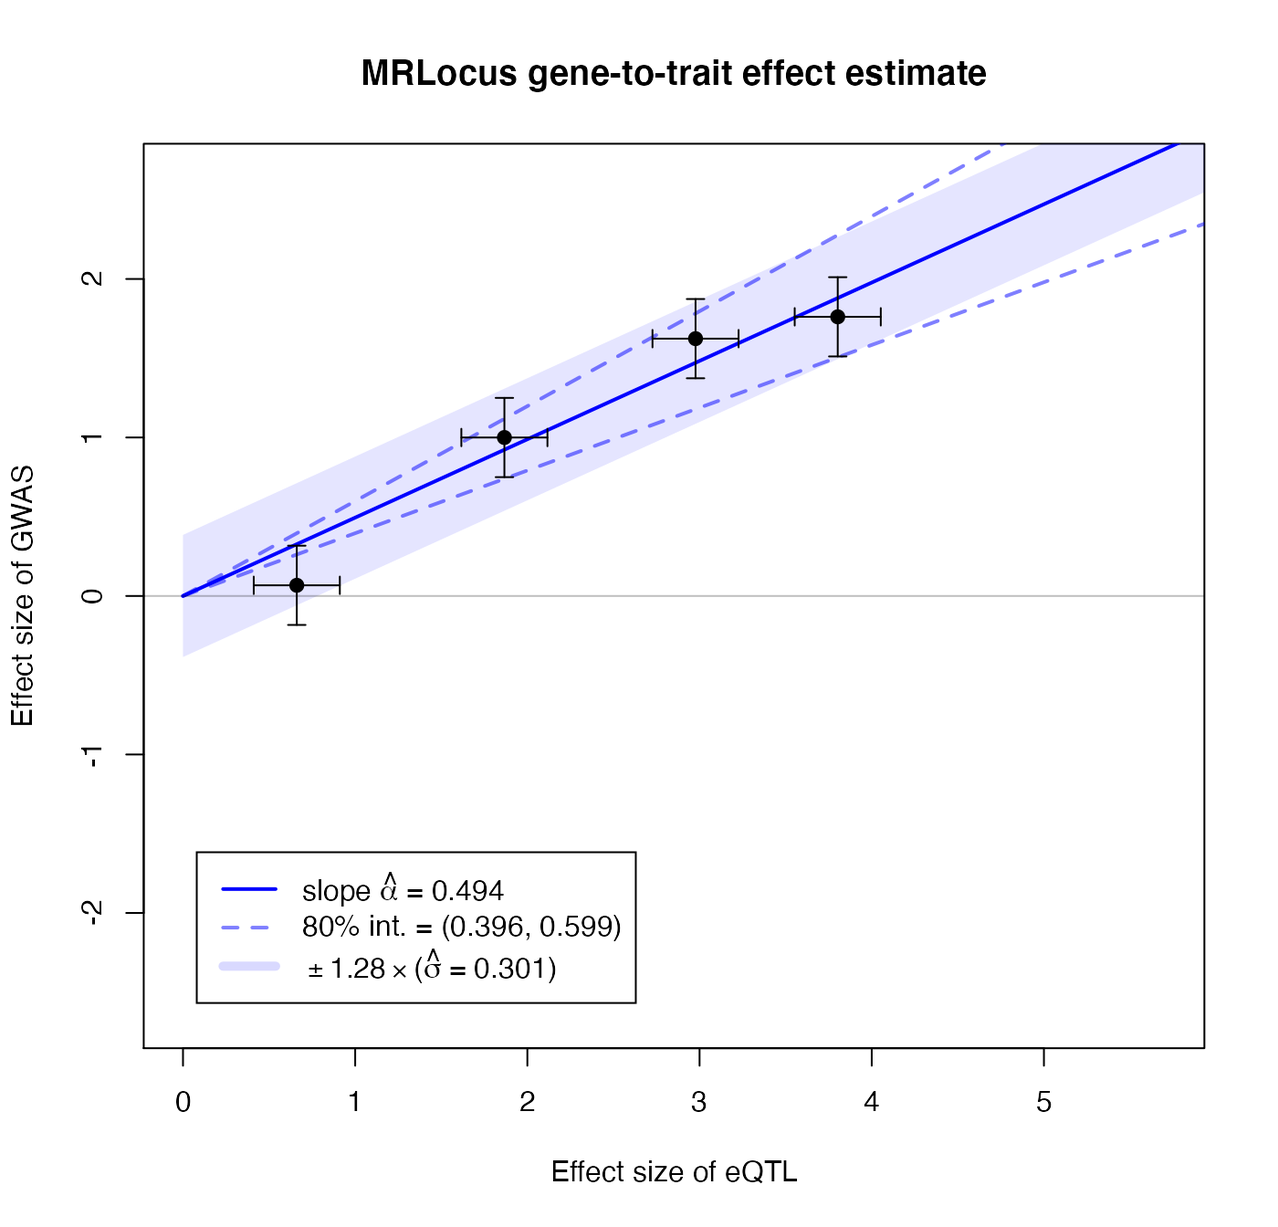
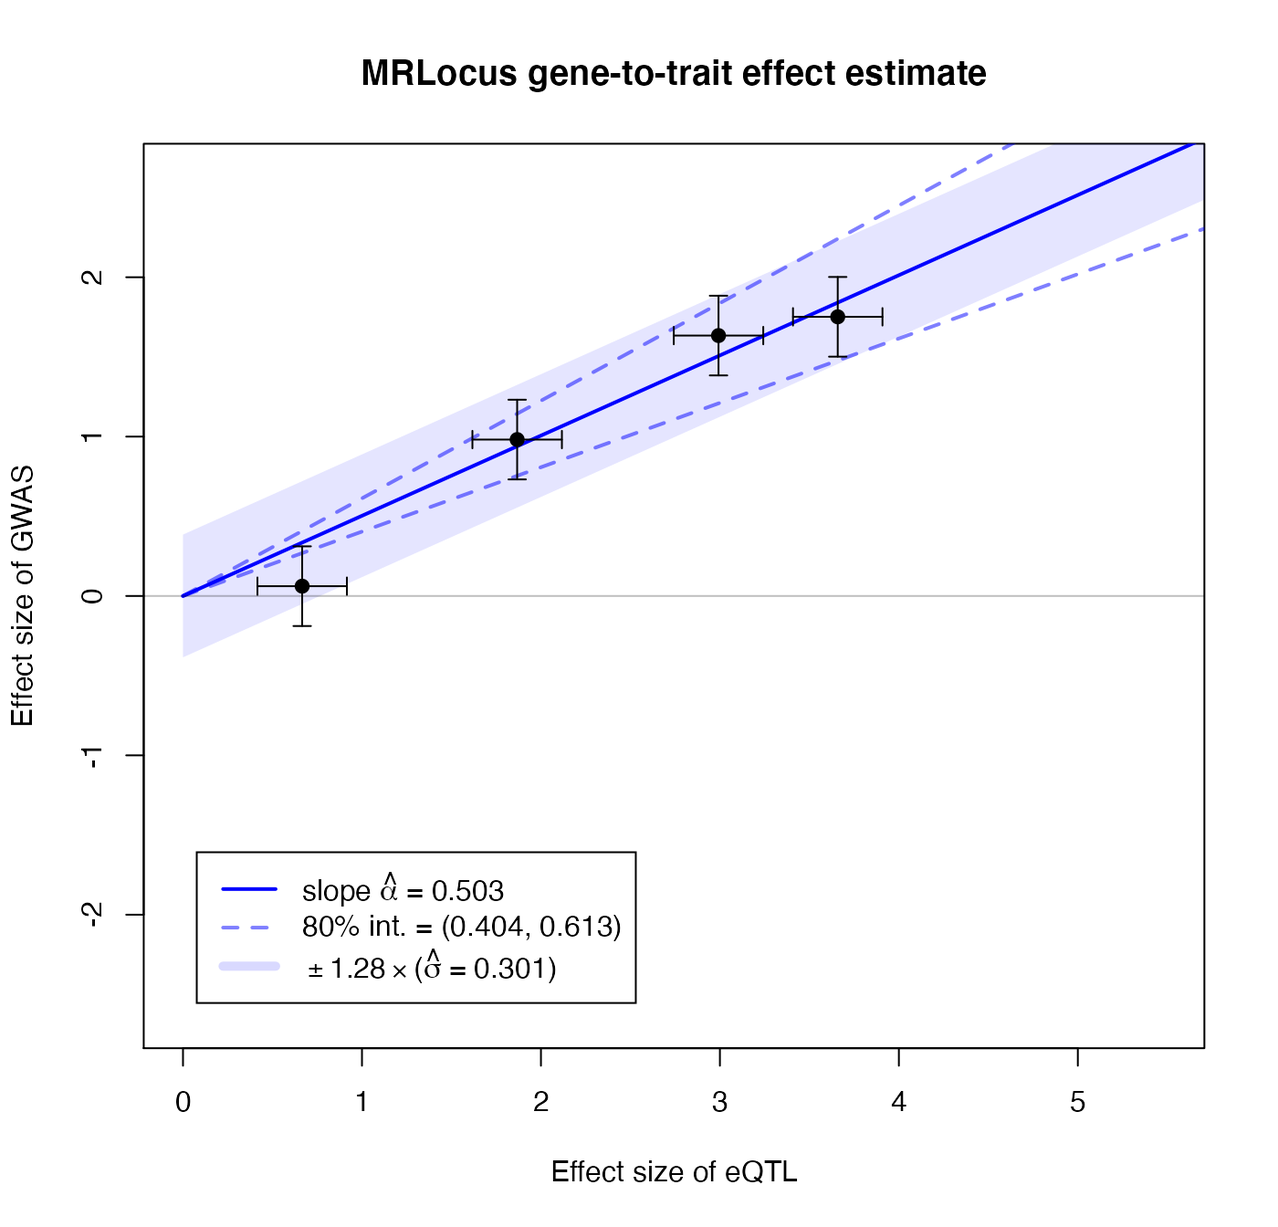
updating citation

diff --git a/docs/articles/mrlocus.html b/docs/articles/mrlocus.html
@@ -70,13 +70,13 @@
 
       
 
-      </header><div class="row">
+      </header><script src="mrlocus_files/header-attrs-2.7/header-attrs.js"></script><div class="row">
   <div class="col-md-9 contents">
     <div class="page-header toc-ignore">
       <h1 data-toc-skip>MRLocus - estimation of gene-to-trait effects</h1>
                         <h4 class="author">Anqi Zhu, Nana Matoba, Jason Stein, Michael Love</h4>
             
-            <h4 class="date">03/02/2021</h4>
+            <h4 class="date">04/23/2021</h4>
       
       <small class="dont-index">Source: <a href="https://github.com/mikelove/mrlocus/blob/master/vignettes/mrlocus.Rmd"><code>vignettes/mrlocus.Rmd</code></a></small>
       <div class="hidden name"><code>mrlocus.Rmd</code></div>
@@ -86,16 +86,16 @@
     
         <div class="abstract">
       <p class="abstract">Abstract</p>
-      MRLocus provides estimation of gene-to-trait effects from eQTL and GWAS summary statistics, for loci with allelic heterogeneity: multiple nearly-LD-independent signal clusters representing distinct eQTLs. Evidence is aggregated across signal clusters for mediation of the downstream GWAS trait through the gene. MRLocus package version: 0.0.22
+      <p>MRLocus provides estimation of gene-to-trait effects from eQTL and GWAS summary statistics, for loci with allelic heterogeneity: multiple nearly-LD-independent signal clusters representing distinct eQTLs. Evidence is aggregated across signal clusters for mediation of the downstream GWAS trait through the gene. MRLocus package version: 0.0.22</p>
     </div>
     
 <div id="introduction" class="section level1">
 <h1 class="hasAnchor">
 <a href="#introduction" class="anchor"></a>Introduction</h1>
 <p>MRLocus provides Bayesian analysis of gene-to-trait mediation effects, making use of the Stan and RStan software packages for inference <span class="citation">(Carpenter et al. 2017; Stan Development Team 2020)</span>.</p>
-<p>The authors of the associated <a href="https://doi.org/10.1101/2020.08.14.250720">MRLocus manuscript</a> <span class="citation">(Zhu et al. 2020)</span> are:</p>
+<p>The authors of the associated <a href="https://doi.org/10.1371/journal.pgen.1009455">MRLocus manuscript</a> <span class="citation">(Zhu et al. 2021)</span> are:</p>
 <blockquote>
-<p>Anqi Zhu*, Nana Matoba*, Emmaleigh Wilson, Amanda L.Tapia, Yun Li, Joseph G. Ibrahim, Jason L. Stein, Michael I. Love</p>
+<p>Anqi Zhu*, Nana Matoba*, Emma P. Wilson, Amanda L. Tapia, Yun Li, Joseph G. Ibrahim, Jason L. Stein, Michael I. Love</p>
 </blockquote>
 <p>* Both authors contributed equally to this work.</p>
 </div>
@@ -168,7 +168,7 @@
                            Sigma_b <span class="op">=</span> <span class="va">Sigma_b</span><span class="op">[[</span><span class="va">j</span><span class="op">]</span><span class="op">]</span>
                          <span class="op">)</span><span class="op">)</span>
 <span class="op">}</span></code></pre></div>
-<p>We now create a list containing the posterior mean from the colocalization step, and the original SE values. Note the SE values are now referred to as <code>sd</code>. We can extract the list of e.g. <code>beta_hat_a</code> using <code>lapply</code> and the <code><a href="https://rdrr.io/r/base/Extract.html">[[</a></code> extractor as seen below:</p>
+<p>We now create a list containing the posterior mean from the colocalization step, and the original SE values. Note the SE values are now referred to as <code>sd</code>. We can extract the list of e.g. <code>beta_hat_a</code> using <code>lapply</code> and the <code><a href="https://rdrr.io/r/base/Extract.html">[[</a></code> extractor as seen below:</p>
 <div class="sourceCode" id="cb8"><pre class="downlit sourceCode r">
 <code class="sourceCode R"><span class="va">res</span> <span class="op">&lt;-</span> <span class="fu"><a href="https://rdrr.io/r/base/list.html">list</a></span><span class="op">(</span>beta_hat_a <span class="op">=</span> <span class="fu"><a href="https://rdrr.io/r/base/lapply.html">lapply</a></span><span class="op">(</span><span class="va">coloc_fit</span>, <span class="va">`[[`</span>, <span class="st">"beta_hat_a"</span><span class="op">)</span>,
             beta_hat_b <span class="op">=</span> <span class="fu"><a href="https://rdrr.io/r/base/lapply.html">lapply</a></span><span class="op">(</span><span class="va">coloc_fit</span>, <span class="va">`[[`</span>, <span class="st">"beta_hat_b"</span><span class="op">)</span>,
@@ -193,8 +193,8 @@
 <div class="sourceCode" id="cb10"><pre class="downlit sourceCode r">
 <code class="sourceCode R"><span class="fu"><a href="https://rdrr.io/r/utils/str.html">str</a></span><span class="op">(</span><span class="va">res</span><span class="op">)</span> <span class="co"># input to fitSlope()</span></code></pre></div>
 <pre><code>## List of 5
-##  $ beta_hat_a: num [1:4] 0.661 1.867 2.977 3.803
-##  $ beta_hat_b: num [1:4] 0.0673 0.9998 1.6235 1.7613
+##  $ beta_hat_a: num [1:4] 0.666 1.867 2.992 3.658
+##  $ beta_hat_b: num [1:4] 0.0614 0.9814 1.634 1.7517
 ##  $ sd_a      : num [1:4] 0.25 0.25 0.25 0.25
 ##  $ sd_b      : num [1:4] 0.25 0.25 0.25 0.25
 ##  $ alleles   :'data.frame':  4 obs. of  3 variables:
@@ -219,10 +219,10 @@
 ## post-warmup draws per chain=5000, total post-warmup draws=20000.
 ## 
 ##        mean se_mean    sd   10%   90% n_eff  Rhat
-## alpha 0.494   0.001 0.093 0.396 0.599  7130 1.000
-## sigma 0.301   0.006 0.296 0.059 0.633  2625 1.001
+## alpha 0.503   0.002 0.097 0.404 0.613  2934 1.002
+## sigma 0.301   0.006 0.301 0.062 0.634  2588 1.002
 ## 
-## Samples were drawn using NUTS(diag_e) at Tue Mar  2 20:20:40 2021.
+## Samples were drawn using NUTS(diag_e) at Fri Apr 23 11:47:27 2021.
 ## For each parameter, n_eff is a crude measure of effective sample size,
 ## and Rhat is the potential scale reduction factor on split chains (at 
 ## convergence, Rhat=1).</code></pre>
@@ -239,9 +239,9 @@
 <div class="sourceCode" id="cb16"><pre class="downlit sourceCode r">
 <code class="sourceCode R"><span class="fu"><a href="../reference/priorCheck.html">priorCheck</a></span><span class="op">(</span><span class="va">res</span><span class="op">)</span></code></pre></div>
 <p><img src="mrlocus_files/figure-html/priorCheck-1.png" width="700"></p>
-<pre><code>##   parameter  prior_sd    post_sd po_pr_ratio
-## 1     alpha 0.9867857 0.09311562  0.09436256
-## 2     sigma 1.7612540 0.29598510  0.16805361</code></pre>
+<pre><code>##   parameter prior_sd    post_sd po_pr_ratio
+## 1     alpha 1.002854 0.09732662   0.0970496
+## 2     sigma 1.751663 0.30121522   0.1719596</code></pre>
 <p>The default is for the function to return the small summary table, but by setting <code>type=2</code>, it will alternatively return the prior predictive draws themselves, with the number of draws specified by <code>n</code> (default is 200).</p>
 </div>
 <div id="session-info" class="section level1">
@@ -249,9 +249,9 @@
 <a href="#session-info" class="anchor"></a>Session info</h1>
 <div class="sourceCode" id="cb18"><pre class="downlit sourceCode r">
 <code class="sourceCode R"><span class="fu"><a href="https://rdrr.io/r/utils/sessionInfo.html">sessionInfo</a></span><span class="op">(</span><span class="op">)</span></code></pre></div>
-<pre><code>## R version 4.0.3 (2020-10-10)
+<pre><code>## R version 4.0.4 (2021-02-15)
 ## Platform: x86_64-apple-darwin17.0 (64-bit)
-## Running under: macOS Catalina 10.15.7
+## Running under: macOS Big Sur 10.16
 ## 
 ## Matrix products: default
 ## BLAS:   /Library/Frameworks/R.framework/Versions/4.0/Resources/lib/libRblas.dylib
@@ -264,54 +264,56 @@
 ## [1] stats     graphics  grDevices utils     datasets  methods   base     
 ## 
 ## other attached packages:
-## [1] rstan_2.21.2         ggplot2_3.3.3        StanHeaders_2.21.0-7
+## [1] rstan_2.21.1         ggplot2_3.3.3        StanHeaders_2.21.0-7
 ## [4] mrlocus_0.0.22      
 ## 
 ## loaded via a namespace (and not attached):
-##  [1] tidyselect_1.1.0   xfun_0.19          purrr_0.3.4        V8_3.4.0          
-##  [5] colorspace_2.0-0   vctrs_0.3.6        generics_0.1.0     htmltools_0.5.0   
-##  [9] stats4_4.0.3       loo_2.4.1          yaml_2.2.1         rlang_0.4.9       
-## [13] pkgbuild_1.2.0     pkgdown_1.6.1      pillar_1.4.7       glue_1.4.2        
-## [17] withr_2.3.0        matrixStats_0.57.0 lifecycle_0.2.0    stringr_1.4.0     
-## [21] munsell_0.5.0      gtable_0.3.0       ragg_0.4.0         codetools_0.2-18  
-## [25] memoise_1.1.0      evaluate_0.14      inline_0.3.17      knitr_1.30        
-## [29] callr_3.5.1        ps_1.5.0           parallel_4.0.3     curl_4.3          
-## [33] fansi_0.4.1        Rcpp_1.0.5         scales_1.1.1       desc_1.2.0        
-## [37] RcppParallel_5.0.2 jsonlite_1.7.2     systemfonts_0.3.2  fs_1.5.0          
-## [41] textshaping_0.2.1  gridExtra_2.3      digest_0.6.27      stringi_1.5.3     
-## [45] processx_3.4.5     dplyr_1.0.2        rprojroot_2.0.2    grid_4.0.3        
-## [49] cli_2.2.0          tools_4.0.3        magrittr_2.0.1     tibble_3.0.4      
-## [53] crayon_1.3.4       pkgconfig_2.0.3    MASS_7.3-53        ellipsis_0.3.1    
-## [57] prettyunits_1.1.1  assertthat_0.2.1   rmarkdown_2.6      R6_2.5.0          
-## [61] compiler_4.0.3</code></pre>
+##  [1] Rcpp_1.0.6         prettyunits_1.1.1  ps_1.6.0           assertthat_0.2.1  
+##  [5] rprojroot_2.0.2    digest_0.6.27      utf8_1.1.4         V8_3.4.0          
+##  [9] R6_2.5.0           stats4_4.0.4       evaluate_0.14      highr_0.8         
+## [13] pillar_1.6.0       rlang_0.4.10       curl_4.3           callr_3.5.1       
+## [17] jquerylib_0.1.3    rmarkdown_2.7      pkgdown_1.6.1      textshaping_0.3.3 
+## [21] desc_1.3.0         stringr_1.4.0      loo_2.4.1          munsell_0.5.0     
+## [25] compiler_4.0.4     xfun_0.22          pkgconfig_2.0.3    systemfonts_1.0.1 
+## [29] pkgbuild_1.2.0     htmltools_0.5.1.1  tidyselect_1.1.0   tibble_3.1.0      
+## [33] gridExtra_2.3      codetools_0.2-18   matrixStats_0.58.0 fansi_0.4.2       
+## [37] withr_2.4.1        crayon_1.4.1       dplyr_1.0.5        MASS_7.3-53       
+## [41] grid_4.0.4         jsonlite_1.7.2     gtable_0.3.0       lifecycle_1.0.0   
+## [45] DBI_1.1.1          magrittr_2.0.1     scales_1.1.1       RcppParallel_5.1.2
+## [49] cli_2.4.0          stringi_1.5.3      cachem_1.0.4       fs_1.5.0          
+## [53] bslib_0.2.4        ellipsis_0.3.1     ragg_1.1.2         vctrs_0.3.6       
+## [57] generics_0.1.0     tools_4.0.4        glue_1.4.2         purrr_0.3.4       
+## [61] processx_3.5.1     parallel_4.0.4     fastmap_1.1.0      yaml_2.2.1        
+## [65] inline_0.3.17      colorspace_2.0-0   memoise_2.0.0      knitr_1.31        
+## [69] sass_0.3.1</code></pre>
 </div>
 <div id="references" class="section level1 unnumbered">
 <h1 class="hasAnchor">
 <a href="#references" class="anchor"></a>References</h1>
-<div id="refs" class="references">
-<div id="ref-stan">
-<p>Carpenter, Bob, Andrew Gelman, Matthew Hoffman, Daniel Lee, Ben Goodrich, Michael Betancourt, Marcus Brubaker, Jiqiang Guo, Peter Li, and Allen Riddell. 2017. “Stan: A Probabilistic Programming Language.” <em>Journal of Statistical Software, Articles</em> 76 (1): 1–32. <a href="https://doi.org/10.18637/jss.v076.i01">https://doi.org/10.18637/jss.v076.i01</a>.</p>
+<div id="refs" class="references csl-bib-body hanging-indent">
+<div id="ref-stan" class="csl-entry">
+Carpenter, Bob, Andrew Gelman, Matthew Hoffman, Daniel Lee, Ben Goodrich, Michael Betancourt, Marcus Brubaker, Jiqiang Guo, Peter Li, and Allen Riddell. 2017. <span>“Stan: A Probabilistic Programming Language.”</span> <em>Journal of Statistical Software, Articles</em> 76 (1): 1–32. <a href="https://doi.org/10.18637/jss.v076.i01">https://doi.org/10.18637/jss.v076.i01</a>.
 </div>
-<div id="ref-eCAVIAR">
-<p>Hormozdiari, Farhad, Martijn van de Bunt, Ayellet V. Segrè, Xiao Li, Jong Wha J. Joo, Michael Bilow, Jae Hoon Sul, Sriram Sankararaman, Bogdan Pasaniuc, and Eleazar Eskin. 2016. “Colocalization of Gwas and eQTL Signals Detects Target Genes.” <em>The American Journal of Human Genetics</em> 99 (6): 1245–60. <a href="https://doi.org/10.1016/j.ajhg.2016.10.003">https://doi.org/10.1016/j.ajhg.2016.10.003</a>.</p>
+<div id="ref-eCAVIAR" class="csl-entry">
+Hormozdiari, Farhad, Martijn van de Bunt, Ayellet V. Segrè, Xiao Li, Jong Wha J. Joo, Michael Bilow, Jae Hoon Sul, Sriram Sankararaman, Bogdan Pasaniuc, and Eleazar Eskin. 2016. <span>“Colocalization of GWAS and eQTL Signals Detects Target Genes.”</span> <em>The American Journal of Human Genetics</em> 99 (6): 1245–60. <a href="https://doi.org/10.1016/j.ajhg.2016.10.003">https://doi.org/10.1016/j.ajhg.2016.10.003</a>.
 </div>
-<div id="ref-twassim">
-<p>Mancuso, Nicholas. 2020. <a href="https://github.com/mancusolab/twas_sim">https://github.com/mancusolab/twas_sim</a>.</p>
+<div id="ref-twassim" class="csl-entry">
+Mancuso, Nicholas. 2020. <span>“Twas_sim.”</span> <a href="https://github.com/mancusolab/twas_sim">https://github.com/mancusolab/twas_sim</a>.
 </div>
-<div id="ref-plink">
-<p>Purcell, Shaun, Benjamin Neale, Kathe Todd-Brown, Lori Thomas, Manuel A. R. Ferreira, David Bender, Julian Maller, et al. 2007. “PLINK: A Tool Set for Whole-Genome Association and Population-Based Linkage Analyses.” <em>The American Journal of Human Genetics</em> 81 (3): 559–75. <a href="https://doi.org/10.1086/519795">https://doi.org/10.1086/519795</a>.</p>
+<div id="ref-plink" class="csl-entry">
+Purcell, Shaun, Benjamin Neale, Kathe Todd-Brown, Lori Thomas, Manuel A. R. Ferreira, David Bender, Julian Maller, et al. 2007. <span>“<span class="nocase">PLINK: A Tool Set for Whole-Genome Association and Population-Based Linkage Analyses</span>.”</span> <em>The American Journal of Human Genetics</em> 81 (3): 559–75. <a href="https://doi.org/10.1086/519795">https://doi.org/10.1086/519795</a>.
 </div>
-<div id="ref-mclust">
-<p>Scrucca, Luca, Michael Fop, T. Brendan Murphy, and Adrian E. Raftery. 2016. “mclust 5: Clustering, Classification and Density Estimation Using Gaussian Finite Mixture Models.” <em>The R Journal</em> 8 (1): 289–317. <a href="https://doi.org/10.32614/RJ-2016-021">https://doi.org/10.32614/RJ-2016-021</a>.</p>
+<div id="ref-mclust" class="csl-entry">
+Scrucca, Luca, Michael Fop, T. Brendan Murphy, and Adrian E. Raftery. 2016. <span>“<span class="nocase">mclust</span> 5: Clustering, Classification and Density Estimation Using <span>G</span>aussian Finite Mixture Models.”</span> <em>The <span>R</span> Journal</em> 8 (1): 289–317. <a href="https://doi.org/10.32614/RJ-2016-021">https://doi.org/10.32614/RJ-2016-021</a>.
 </div>
-<div id="ref-rstan">
-<p>Stan Development Team. 2020. “RStan: The R Interface to Stan.” <a href="http://mc-stan.org/">http://mc-stan.org/</a>.</p>
+<div id="ref-rstan" class="csl-entry">
+Stan Development Team. 2020. <span>“<span>RStan</span>: The <span>R</span> Interface to <span>Stan</span>.”</span> <a href="http://mc-stan.org/">http://mc-stan.org/</a>.
 </div>
-<div id="ref-ptwas">
-<p>Zhang, Yuhua, Corbin Quick, Ketian Yu, Alvaro BarbeiraFrancesca Luca, Roger Pique-Regi, Hae Kyung Im, and Xiaoquan Wen. 2019. “Investigating Tissue-Relevant Causal Molecular Mechanisms of Complex Traits Using Probabilistic Twas Analysis.” <em>bioRxiv</em>. Cold Spring Harbor Laboratory. <a href="https://doi.org/10.1101/808295">https://doi.org/10.1101/808295</a>.</p>
+<div id="ref-ptwas" class="csl-entry">
+Zhang, Yuhua, Corbin Quick, Ketian Yu, Alvaro Barbeira, Francesca Luca, Roger Pique-Regi, Hae Kyung Im, and Xiaoquan Wen. 2019. <span>“Investigating Tissue-Relevant Causal Molecular Mechanisms of Complex Traits Using Probabilistic TWAS Analysis.”</span> <em>bioRxiv</em>. <a href="https://doi.org/10.1101/808295">https://doi.org/10.1101/808295</a>.
 </div>
-<div id="ref-mrlocus">
-<p>Zhu, Anqi, Nana Matoba, Emmaleigh Wilson, Amanda L. Tapia, Yun Li, Joseph G. Ibrahim, Jason L. Stein, and Michael I. Love. 2020. “MRLocus: identifying causal genes mediating a trait through Bayesian estimation of allelic heterogeneity.” <em>bioRxiv</em>. <a href="https://doi.org/10.1101/2020.08.14.250720">https://doi.org/10.1101/2020.08.14.250720</a>.</p>
+<div id="ref-mrlocus" class="csl-entry">
+Zhu, Anqi, Nana Matoba, Emma P. Wilson, Amanda L. Tapia, Yun Li, Joseph G. Ibrahim, Jason L. Stein, and Michael I. Love. 2021. <span>“<span class="nocase">MRLocus: identifying causal genes mediating a trait through Bayesian estimation of allelic heterogeneity</span>.”</span> <em>PLOS Genetics</em> 17 (4): e1009455. <a href="https://doi.org/10.1371/journal.pgen.1009455">https://doi.org/10.1371/journal.pgen.1009455</a>.
 </div>
 </div>
 </div>

diff --git a/docs/news/index.html b/docs/news/index.html
@@ -117,40 +117,40 @@
       <small>Source: <a href='https://github.com/mikelove/mrlocus/blob/master/NEWS.md'><code>NEWS.md</code></a></small>
     </div>
 
-    <div id="mrlocus-0-0-22" class="section level1">
+    <div id="mrlocus-0022" class="section level1">
 <h1 class="page-header" data-toc-text="0.0.22">
-<a href="#mrlocus-0-0-22" class="anchor"></a>mrlocus 0.0.22</h1>
+<a href="#mrlocus-0022" class="anchor"></a>mrlocus 0.0.22</h1>
 <ul>
 <li>Added <code>trimClusters</code> helper function, with default to trim down from most significant signal cluster to the least.</li>
 <li>Warning if &lt; 2 signal clusters provided (not recommended).</li>
 </ul>
 </div>
-    <div id="mrlocus-0-0-17" class="section level1">
+    <div id="mrlocus-0017" class="section level1">
 <h1 class="page-header" data-toc-text="0.0.17">
-<a href="#mrlocus-0-0-17" class="anchor"></a>mrlocus 0.0.17</h1>
+<a href="#mrlocus-0017" class="anchor"></a>mrlocus 0.0.17</h1>
 <ul>
 <li>
 <code>collapseHighCorSNPs</code> now outputs the SNP ids that were collapsed.</li>
 </ul>
 </div>
-    <div id="mrlocus-0-0-16" class="section level1">
+    <div id="mrlocus-0016" class="section level1">
 <h1 class="page-header" data-toc-text="0.0.16">
-<a href="#mrlocus-0-0-16" class="anchor"></a>mrlocus 0.0.16</h1>
+<a href="#mrlocus-0016" class="anchor"></a>mrlocus 0.0.16</h1>
 <ul>
 <li>Adding prior predictive checks at the suggestion of Rob Moccia.</li>
 </ul>
 </div>
-    <div id="mrlocus-0-0-15" class="section level1">
+    <div id="mrlocus-0015" class="section level1">
 <h1 class="page-header" data-toc-text="0.0.15">
-<a href="#mrlocus-0-0-15" class="anchor"></a>mrlocus 0.0.15</h1>
+<a href="#mrlocus-0015" class="anchor"></a>mrlocus 0.0.15</h1>
 <ul>
 <li>Adapting <code>sd_sigma</code> argument in <code>fitSlope</code> based on scale of the posterior coefficients for B, <code>beta_hat_b</code>.</li>
 <li>Also output priors from <code>fitSlope</code>.</li>
 </ul>
 </div>
-    <div id="mrlocus-0-0-14" class="section level1">
+    <div id="mrlocus-0014" class="section level1">
 <h1 class="page-header" data-toc-text="0.0.14">
-<a href="#mrlocus-0-0-14" class="anchor"></a>mrlocus 0.0.14</h1>
+<a href="#mrlocus-0014" class="anchor"></a>mrlocus 0.0.14</h1>
 <ul>
 <li>This is the first major release.</li>
 </ul>

diff --git a/docs/index.html b/docs/index.html
@@ -84,10 +84,10 @@
 <p>MRLocus is a statistical method providing Mendelian Randomization analysis per locus, leveraging eQTL and GWAS summary statistics, for estimation of gene-to-trait effect size and dispersion.</p>
 <p>See <code>Get started</code> tab for software vignette, and <code>Reference</code> tab for manual pages of the individual functions.</p>
 </div>
-<div id="preprint" class="section level3">
+<div id="publication" class="section level3">
 <h3 class="hasAnchor">
-<a href="#preprint" class="anchor"></a>Preprint</h3>
-<p>Anqi Zhu*, Nana Matoba*, Emmaleigh Wilson, Amanda L. Tapia, Yun Li, Joseph G. Ibrahim, Jason L. Stein, Michael I. Love. “MRLocus: identifying causal genes mediating a trait through Bayesian estimation of allelic heterogeneity” <em>bioRxiv</em>, August 2020. <a href="https://doi.org/10.1101/2020.08.14.250720">doi: 10.1101/2020.08.14.250720</a></p>
+<a href="#publication" class="anchor"></a>Publication</h3>
+<p>Anqi Zhu*, Nana Matoba*, Emma P. Wilson, Amanda L. Tapia, Yun Li, Joseph G. Ibrahim, Jason L. Stein, Michael I. Love. “MRLocus: identifying causal genes mediating a trait through Bayesian estimation of allelic heterogeneity” <em>PLOS Genetics</em>, 17(4): e1009455 (2021). <a href="https://doi.org/10.1371/journal.pgen.1009455">doi: 10.1371/journal.pgen.1009455</a></p>
 <p>* Both authors contributed equally to this work.</p>
 </div>
 <div id="data-input" class="section level3">

diff --git a/docs/authors.html b/docs/authors.html
@@ -117,13 +117,13 @@
       <small class="dont-index">Source: <a href='https://github.com/mikelove/mrlocus/blob/master/inst/CITATION'><code>inst/CITATION</code></a></small>
     </div>
 
-    <p>Anqi Zhu*, Nana Matoba*, Emmaleigh Wilson, Amanda L. Tapia, Yun Li, Joseph G. Ibrahim, Jason L. Stein, Michael I. Love MRLocus: identifying causal genes mediating a trait through Bayesian estimation of allelic heterogeneity bioRxiv (2020)</p>
+    <p>Anqi Zhu*, Nana Matoba*, Emma P. Wilson, Amanda L. Tapia, Yun Li, Joseph G. Ibrahim, Jason L. Stein, Michael I. Love MRLocus: identifying causal genes mediating a trait through Bayesian estimation of allelic heterogeneity PLOS Genetics, 17(4): e1009455 (2021)</p>
     <pre>@Article{,
   title = {MRLocus: identifying causal genes mediating a trait through Bayesian estimation of allelic heterogeneity},
-  author = {Anqi Zhu and Nana Matoba and Emmaleigh Wilson and Amanda L. Tapia and Yun Li and Joseph G. Ibrahim and Jason L. Stein and Michael I. Love},
-  year = {2020},
-  journal = {bioRxiv},
-  doi = {10.1101/2020.08.14.250720},
+  author = {Anqi Zhu and Nana Matoba and Emma P. Wilson and Amanda L. Tapia and Yun Li and Joseph G. Ibrahim and Jason L. Stein and Michael I. Love},
+  year = {2021},
+  journal = {PLOS Genetics},
+  doi = {10.1371/journal.pgen.1009455},
 }</pre>
 
     <div class="page-header">

diff --git a/docs/reference/fitSlope.html b/docs/reference/fitSlope.html
@@ -199,11 +199,11 @@ of MRLocus) and a parametric simulation is used to estimate the
 slope, instead of the Bayesian model.</p>
     <h2 class="hasAnchor" id="references"><a class="anchor" href="#references"></a>References</h2>
 
-    <p>Anqi Zhu*, Nana Matoba*, Emmaleigh Wilson, Amanda L. Tapia, Yun Li,
+    <p>Anqi Zhu*, Nana Matoba*, Emma P. Wilson, Amanda L. Tapia, Yun Li,
 Joseph G. Ibrahim, Jason L. Stein, Michael I. Love.
 MRLocus: identifying causal genes mediating a trait through
-Bayesian estimation of allelic heterogeneity. (2020) bioRxiv
-<a href='https://doi.org/10.1101/2020.08.14.250720'>https://doi.org/10.1101/2020.08.14.250720</a></p>
+Bayesian estimation of allelic heterogeneity. (2021) PLOS Genetics
+<a href='https://doi.org/10.1371/journal.pgen.1009455'>https://doi.org/10.1371/journal.pgen.1009455</a></p>
 
   </div>
   <div class="col-md-3 hidden-xs hidden-sm" id="pkgdown-sidebar">

diff --git a/docs/reference/fitBetaColoc.html b/docs/reference/fitBetaColoc.html
@@ -187,11 +187,11 @@ should be divided out from both coefficients and SDs
 (see Supplementary Methods).</p>
     <h2 class="hasAnchor" id="references"><a class="anchor" href="#references"></a>References</h2>
 
-    <p>Anqi Zhu*, Nana Matoba*, Emmaleigh Wilson, Amanda L. Tapia, Yun Li,
+    <p>Anqi Zhu*, Nana Matoba*, Emma P. Wilson, Amanda L. Tapia, Yun Li,
 Joseph G. Ibrahim, Jason L. Stein, Michael I. Love.
 MRLocus: identifying causal genes mediating a trait through
-Bayesian estimation of allelic heterogeneity. (2020) bioRxiv
-<a href='https://doi.org/10.1101/2020.08.14.250720'>https://doi.org/10.1101/2020.08.14.250720</a></p>
+Bayesian estimation of allelic heterogeneity. (2021) PLOS Genetics
+<a href='https://doi.org/10.1371/journal.pgen.1009455'>https://doi.org/10.1371/journal.pgen.1009455</a></p>
 
   </div>
   <div class="col-md-3 hidden-xs hidden-sm" id="pkgdown-sidebar">

diff --git a/README.md b/README.md
@@ -11,14 +11,14 @@ estimation of gene-to-trait effect size and dispersion.
 See `Get started` tab for software vignette, and `Reference` tab for
 manual pages of the individual functions.
 
-### Preprint
+### Publication
 
-Anqi Zhu\*, Nana Matoba\*, Emmaleigh Wilson, Amanda L. Tapia, Yun Li,
+Anqi Zhu\*, Nana Matoba\*, Emma P. Wilson, Amanda L. Tapia, Yun Li,
 Joseph G. Ibrahim, Jason L. Stein, Michael I. Love.
 "MRLocus: identifying causal genes mediating a trait through Bayesian
 estimation of allelic heterogeneity"
-*bioRxiv*, August 2020.
-[doi: 10.1101/2020.08.14.250720](https://doi.org/10.1101/2020.08.14.250720)
+*PLOS Genetics*, 17(4): e1009455 (2021).
+[doi: 10.1371/journal.pgen.1009455](https://doi.org/10.1371/journal.pgen.1009455)
 
 \* Both authors contributed equally to this work.
 
